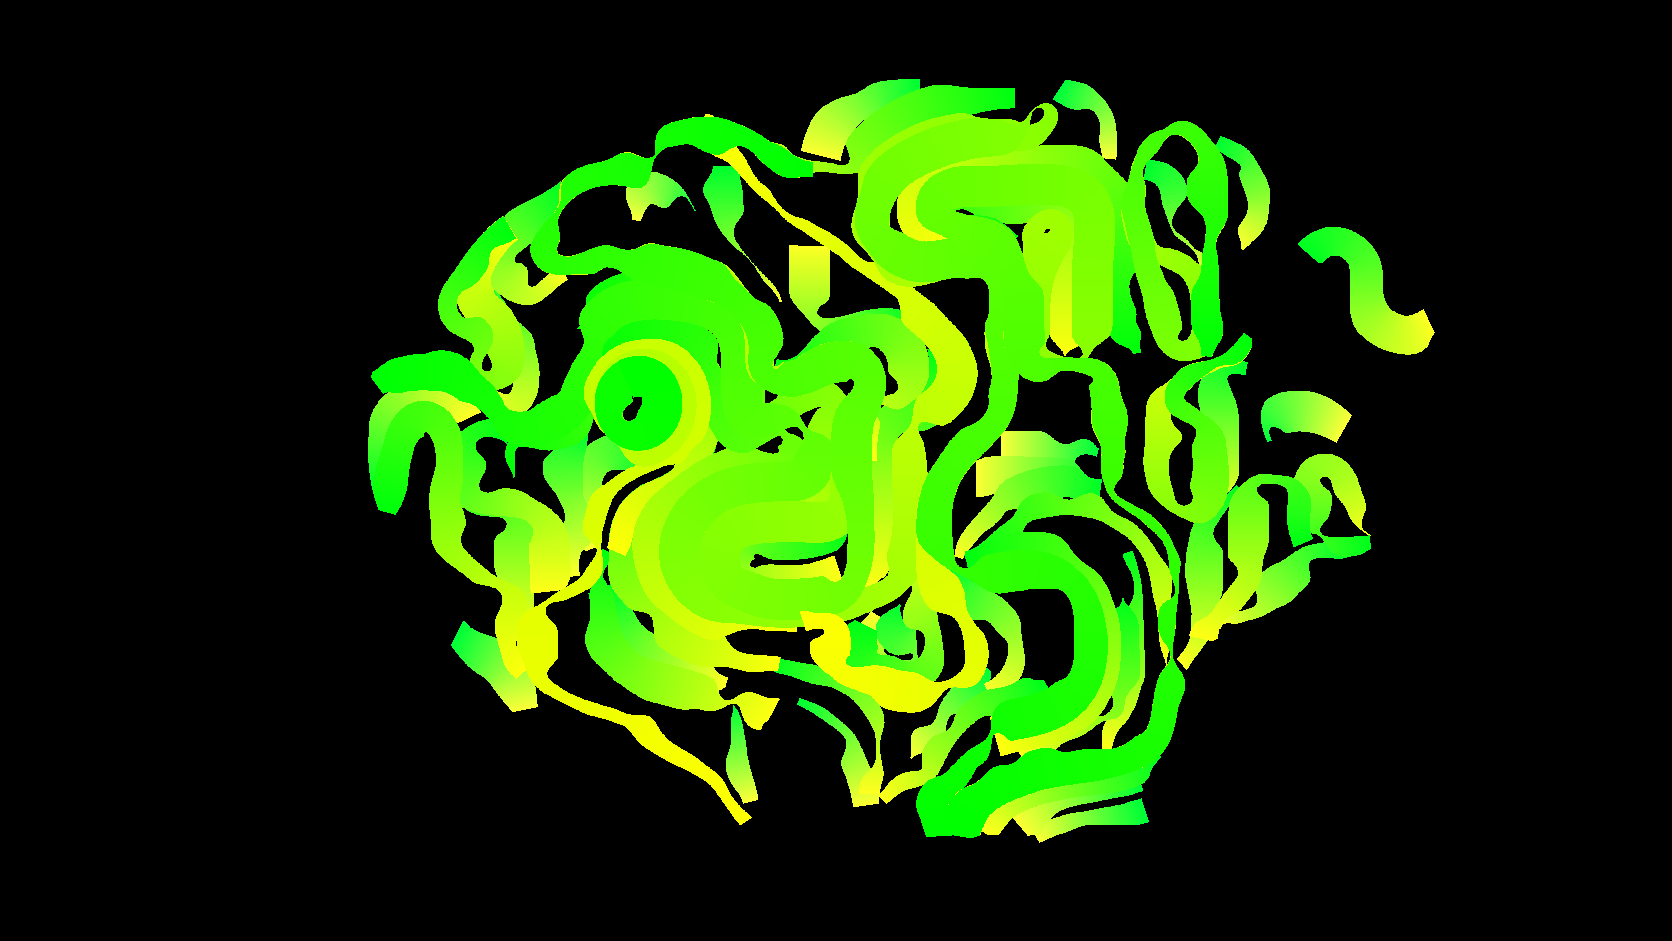
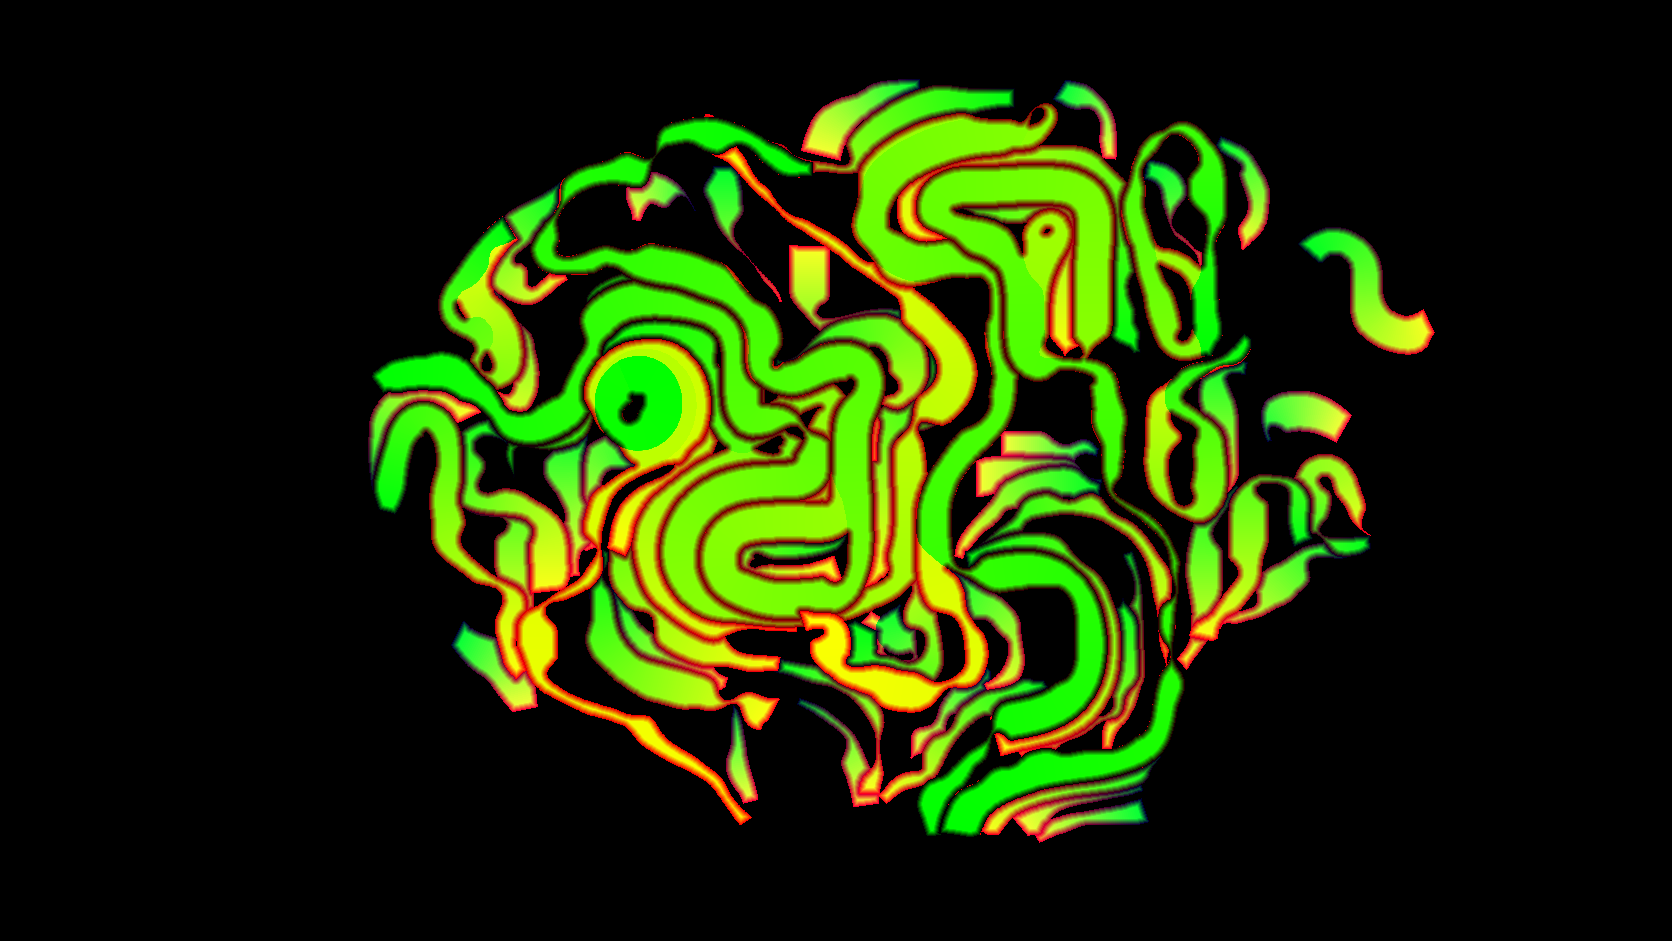
How We Work: inset channel fills, bronze ground
- Each channel's fill stops short of its edge (channels.png G is now
  distance from the edge), so the artwork's lines show between fills
  instead of hard-edged blocks
- The skin is a metallic bronze ground that keeps clear of the channels,
  replacing the patchy gold/silver; bright enough to read as metal

Changed region(s): [[0.2177, 0.0616, 0.8397, 0.8937], [0.7775, 0.2465, 0.8708, 0.3698]]

diff --git a/src/components/ChannelArt.jsx b/src/components/ChannelArt.jsx
@@ -6,13 +6,14 @@ import schedule from './channelSchedule.json';
 // The approved How We Work artwork (the "Gold Thread Through the Hidden Map"
 // render with the gold string and mockup text removed), facing the viewer and
 // breathing. As the journey advances, its existing channels fill with shades
-// of gold and silver — the skeleton — and then the skin spreads over the rest
-// of the surface, so by the last slide the whole piece is filled.
+// of gold and silver — the skeleton — and then a bronze skin spreads over the
+// rest of the surface, so by the last slide the whole piece is filled.
 //
 // channels.png — R: how far along its channel a pixel is (0→1),
-//                G: inside a channel, B: which channel.
-// skin.png     — R: the artwork's surface, G: when the skin reaches it,
-//                B: nearest channel (the skin takes on its metal).
+//                G: distance in from the channel's edge (0 = outside),
+//                B: which channel.
+// skin.png     — R: the artwork's surface, G: when the skin reaches it
+//                (distance from the nearest channel).
 // A "screen" blend tints the dark spaces while every fine line stays brighter
 // than the colour, so the linework stays intact.
 
@@ -54,6 +55,7 @@ const fragmentShader = /* glsl */ `
   const vec3 GOLD_BRIGHT = vec3(0.86, 0.70, 0.33);
   const vec3 SILVER_MATTE = vec3(0.55, 0.57, 0.60);
   const vec3 SILVER_SHINY = vec3(0.90, 0.92, 0.95);
+  const vec3 BRONZE = vec3(0.56, 0.38, 0.17); // metallic, not brown
 
   vec3 metal(float silver, float shade, float sheen) {
     vec3 gold = mix(GOLD_DULL, GOLD_BRIGHT, shade);
@@ -75,7 +77,10 @@ const fragmentShader = /* glsl */ `
     vec3 art = texture2D(uArt, tc).rgb;
     vec4 ch = texture2D(uChan, tc);
     float along = ch.r;
-    float inside = step(0.5, ch.g);
+    // G is distance from the channel's edge: the fill stops a little short,
+    // so the artwork's own lines show through between neighbouring fills.
+    float inside = smoothstep(0.3, 0.75, ch.g);
+    float inChannel = step(0.01, ch.g);
     float idx = floor(ch.b * 255.0 + 0.5);
     vec4 p = texture2D(uParams, vec2((idx + 0.5) / uCount, 0.5));
 
@@ -85,15 +90,15 @@ const fragmentShader = /* glsl */ `
     float sheen = 0.5 + 0.5 * sin(along * 9.0 - uTime * 0.9 + p.a * 6.2832);
     vec3 tint = metal(p.g, p.b, sheen) * (fill * 0.8) + vec3(1.0, 0.95, 0.8) * edge * 0.3;
 
-    // Skin: grows out from the filled channels over the rest of the surface,
-    // each area taking the gold or silver of its nearest channel, so the
-    // colour follows the motif's structure rather than lying over it.
+    // Skin: a darker bronze grows out from the filled channels over the rest
+    // of the surface, stopping just short of them, so the piece reads as gold
+    // and silver channels set in a bronze ground.
     vec4 sk = texture2D(uSkin, tc);
-    float skin = clamp((uSkinFill - sk.g) / 0.06, 0.0, 1.0) * sk.r * (1.0 - inside);
-    vec4 near = texture2D(uParams, vec2((floor(sk.b * 255.0 + 0.5) + 0.5) / uCount, 0.5));
-    float skinSheen = 0.5 + 0.5 * sin(sk.g * 14.0 - uTime * 0.6 + near.a * 6.2832);
-    // Lighter than the channels, so the fine lines read through the skin.
-    tint += metal(near.g, near.b * 0.7, skinSheen) * skin * 0.42;
+    float gap = smoothstep(0.008, 0.022, sk.g); // keep clear of the channels
+    float skin = clamp((uSkinFill - sk.g) / 0.06, 0.0, 1.0) * sk.r * gap * (1.0 - inChannel);
+    float skinSheen = 0.5 + 0.5 * sin(sk.g * 14.0 + tc.x * 6.0 - uTime * 0.5);
+    // A wider swing than gold, so the bronze reads as metal catching light.
+    tint += BRONZE * mix(0.6, 1.3, pow(skinSheen, 3.0)) * skin * 0.6;
 
     vec3 col = 1.0 - (1.0 - art) * (1.0 - tint); // screen
     gl_FragColor = vec4(col, 1.0);
